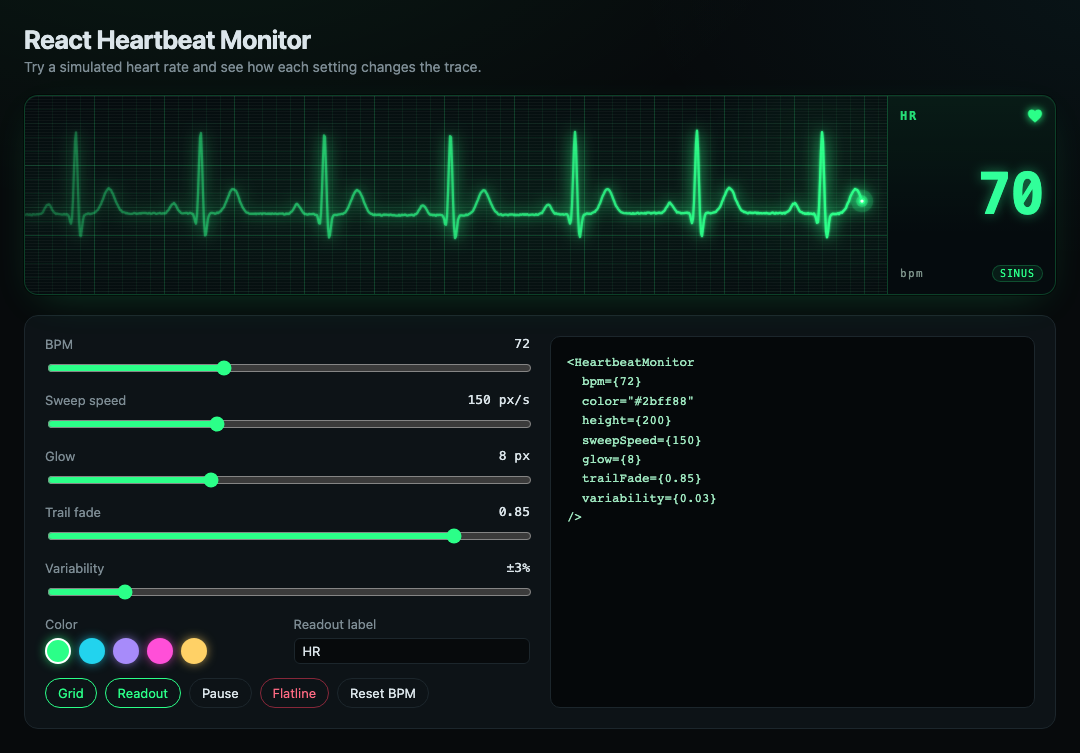
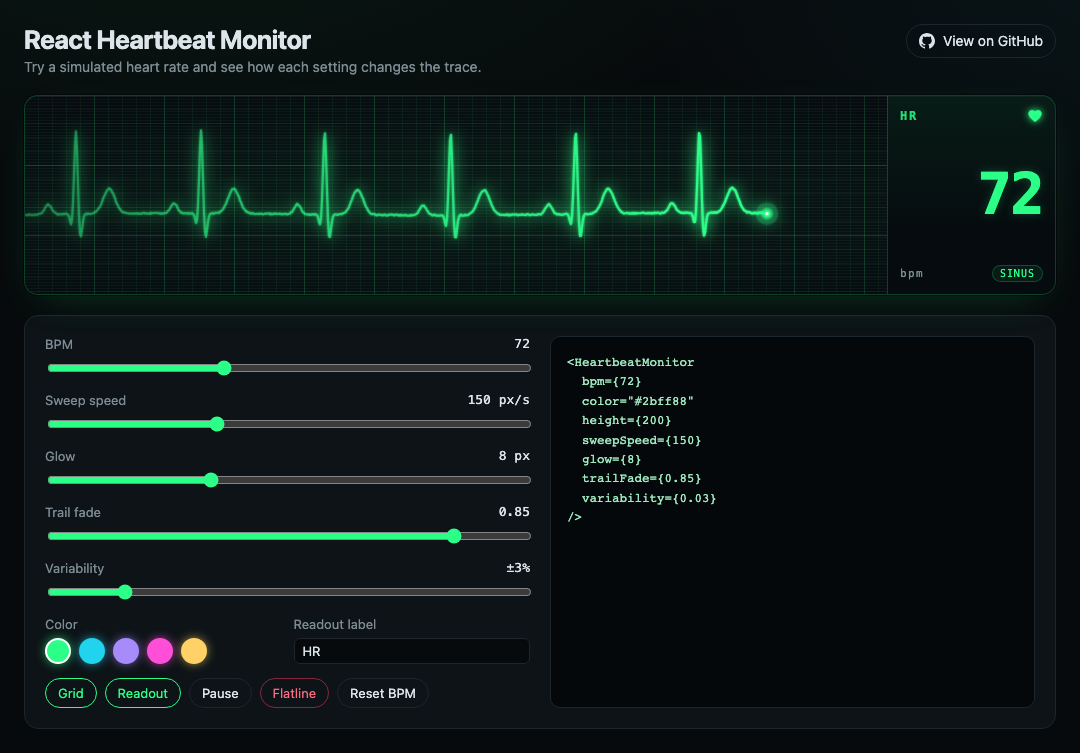
docs: refresh README media from the live demo

diff --git a/README.md b/README.md
@@ -6,7 +6,7 @@ Turn off **Readout** and **Grid** in the demo to show just the trace. You can al
 
 **[Try the interactive demo](https://phillippbertram.github.io/react-heartbeat-monitor/)**
 
-![The demo with a green ECG trace, controls, and a live JSX example](docs/media/demo.png)
+![The demo with its GitHub link, a green ECG trace, controls, and a live JSX example](docs/media/demo.png)
 
 ## Use it in your app
 
@@ -27,7 +27,7 @@ See the [component guide](src/HeartbeatMonitor/README.md) for props, CSS variabl
 <details>
 <summary>See the status examples</summary>
 
-![Three monitors show a normal rate, a high rate, and a flatline](docs/media/status-examples.png)
+![The demo's three status examples, minimal monitor, and centered copyright footer](docs/media/status-examples.png)
 
 ![Changing the BPM switches the trace through normal, high, and flatline states](docs/media/status-changes.gif)
 
